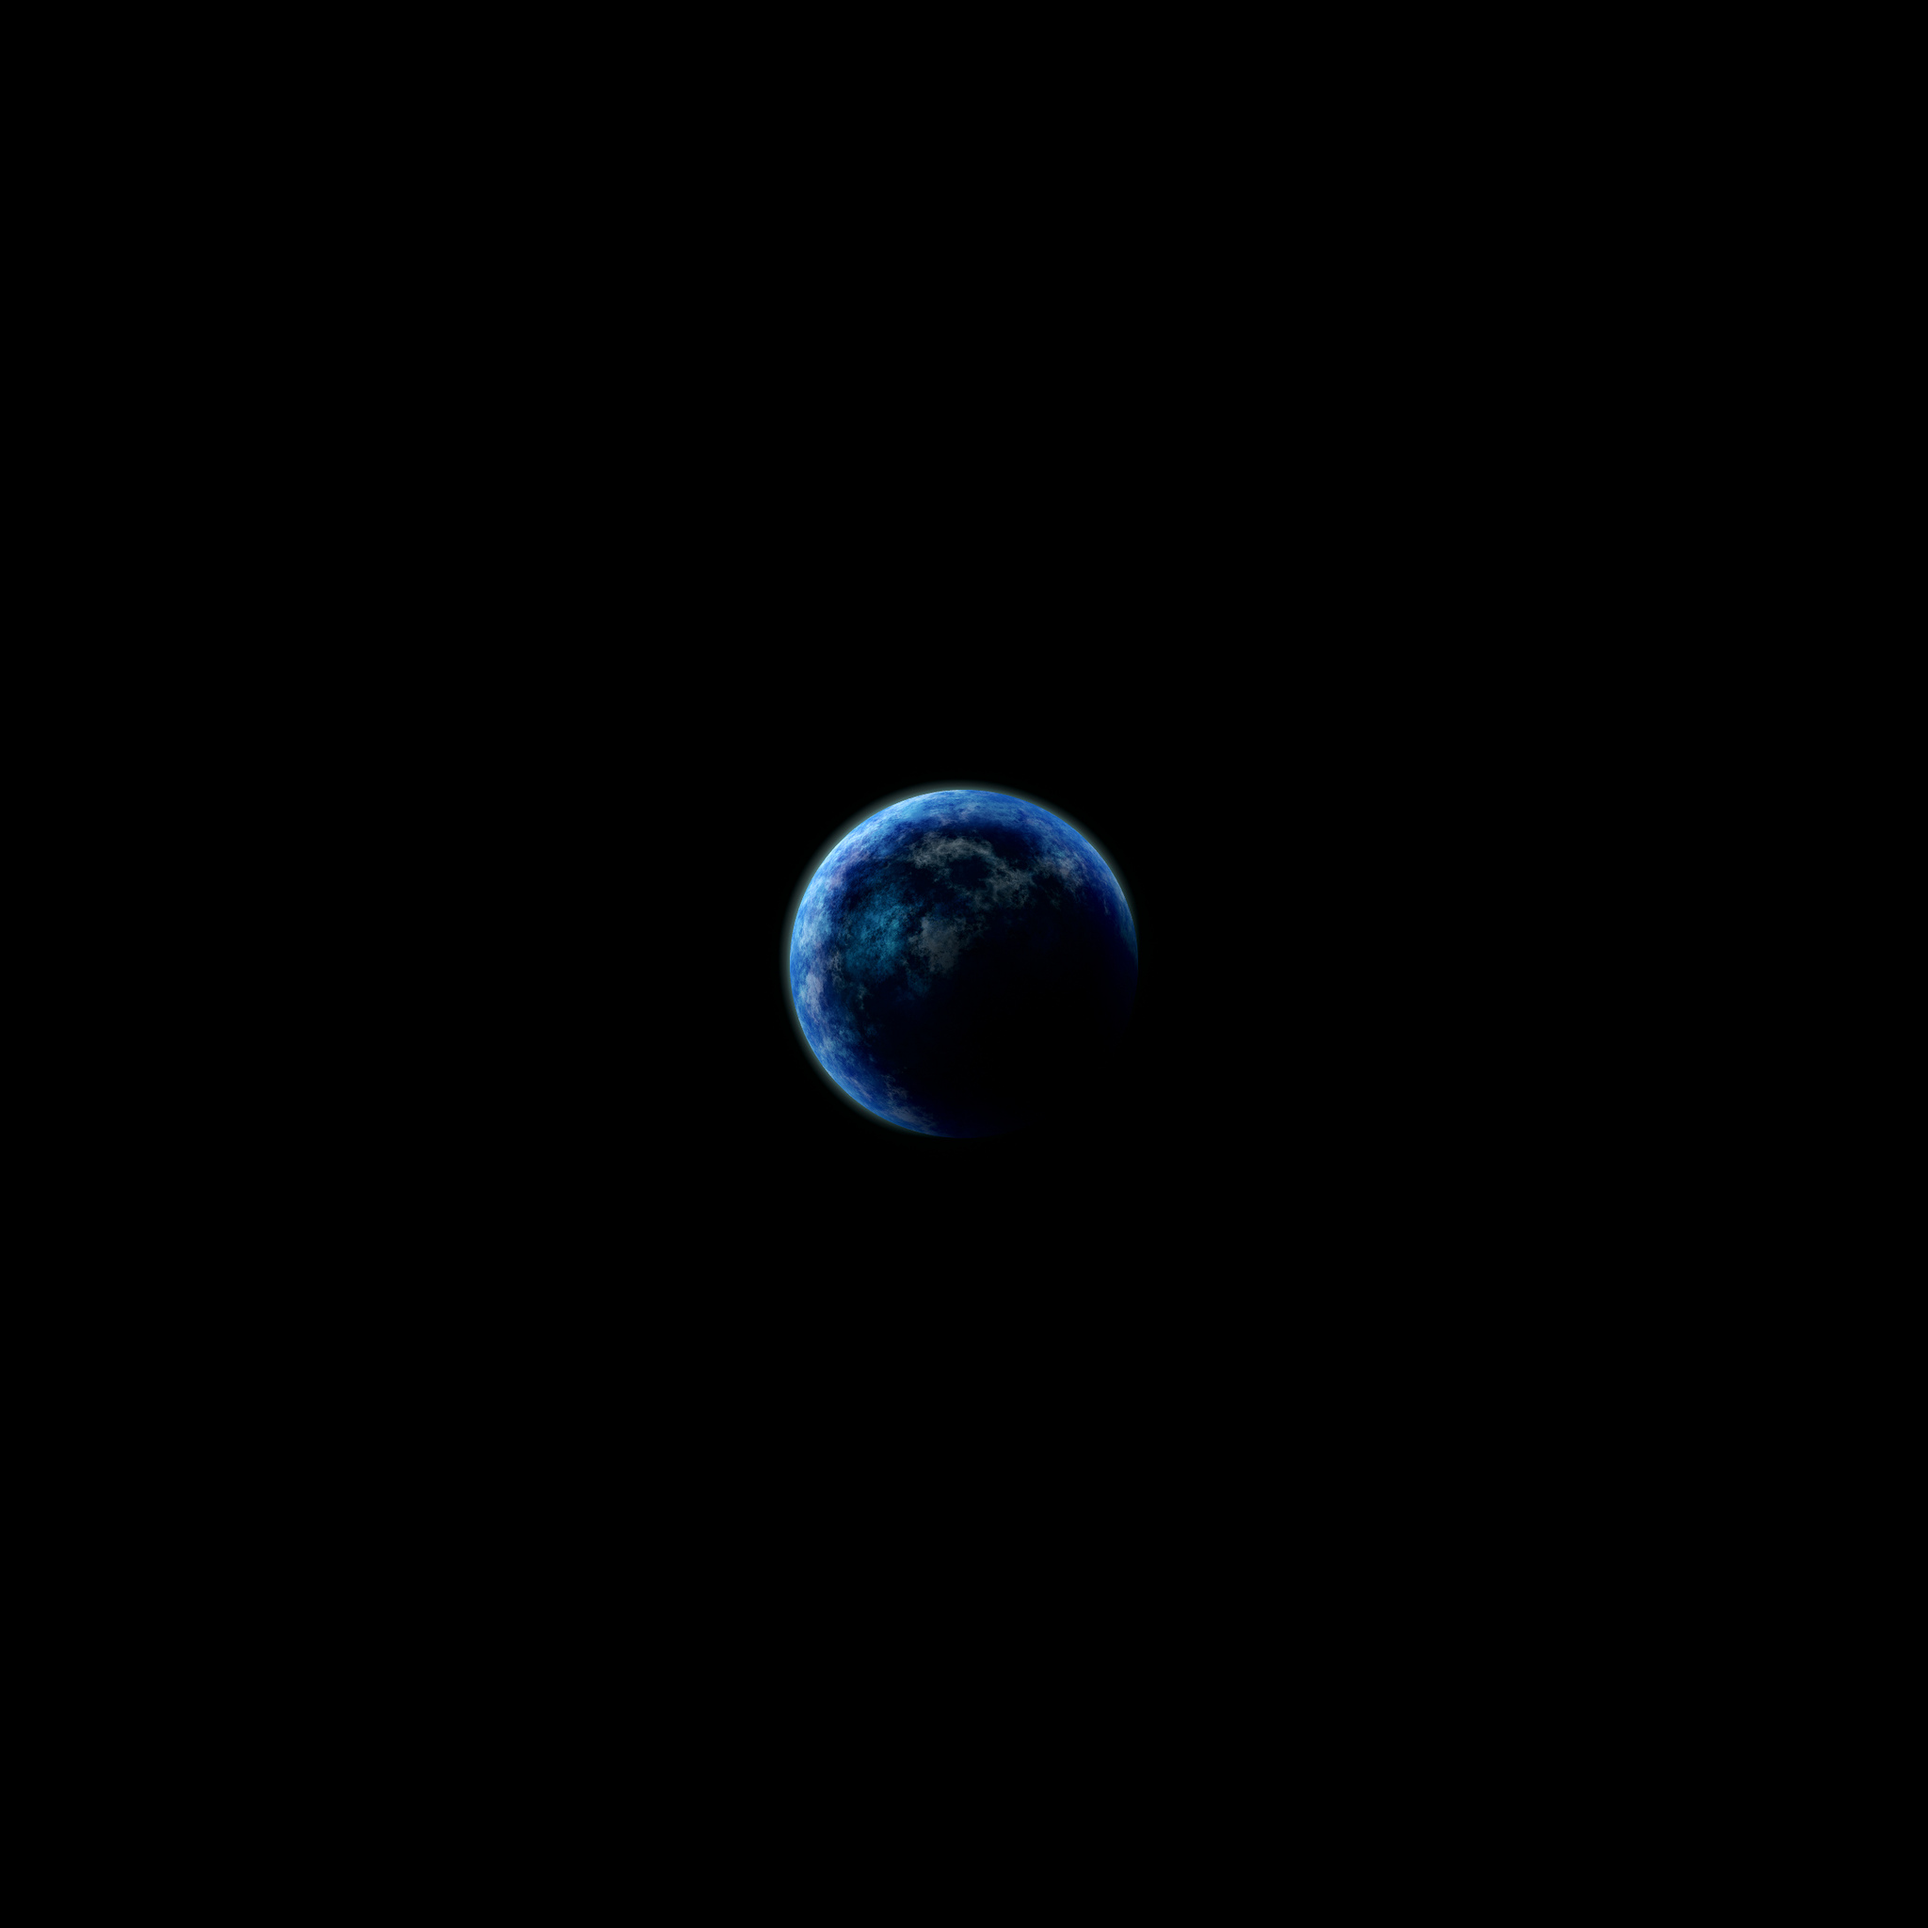
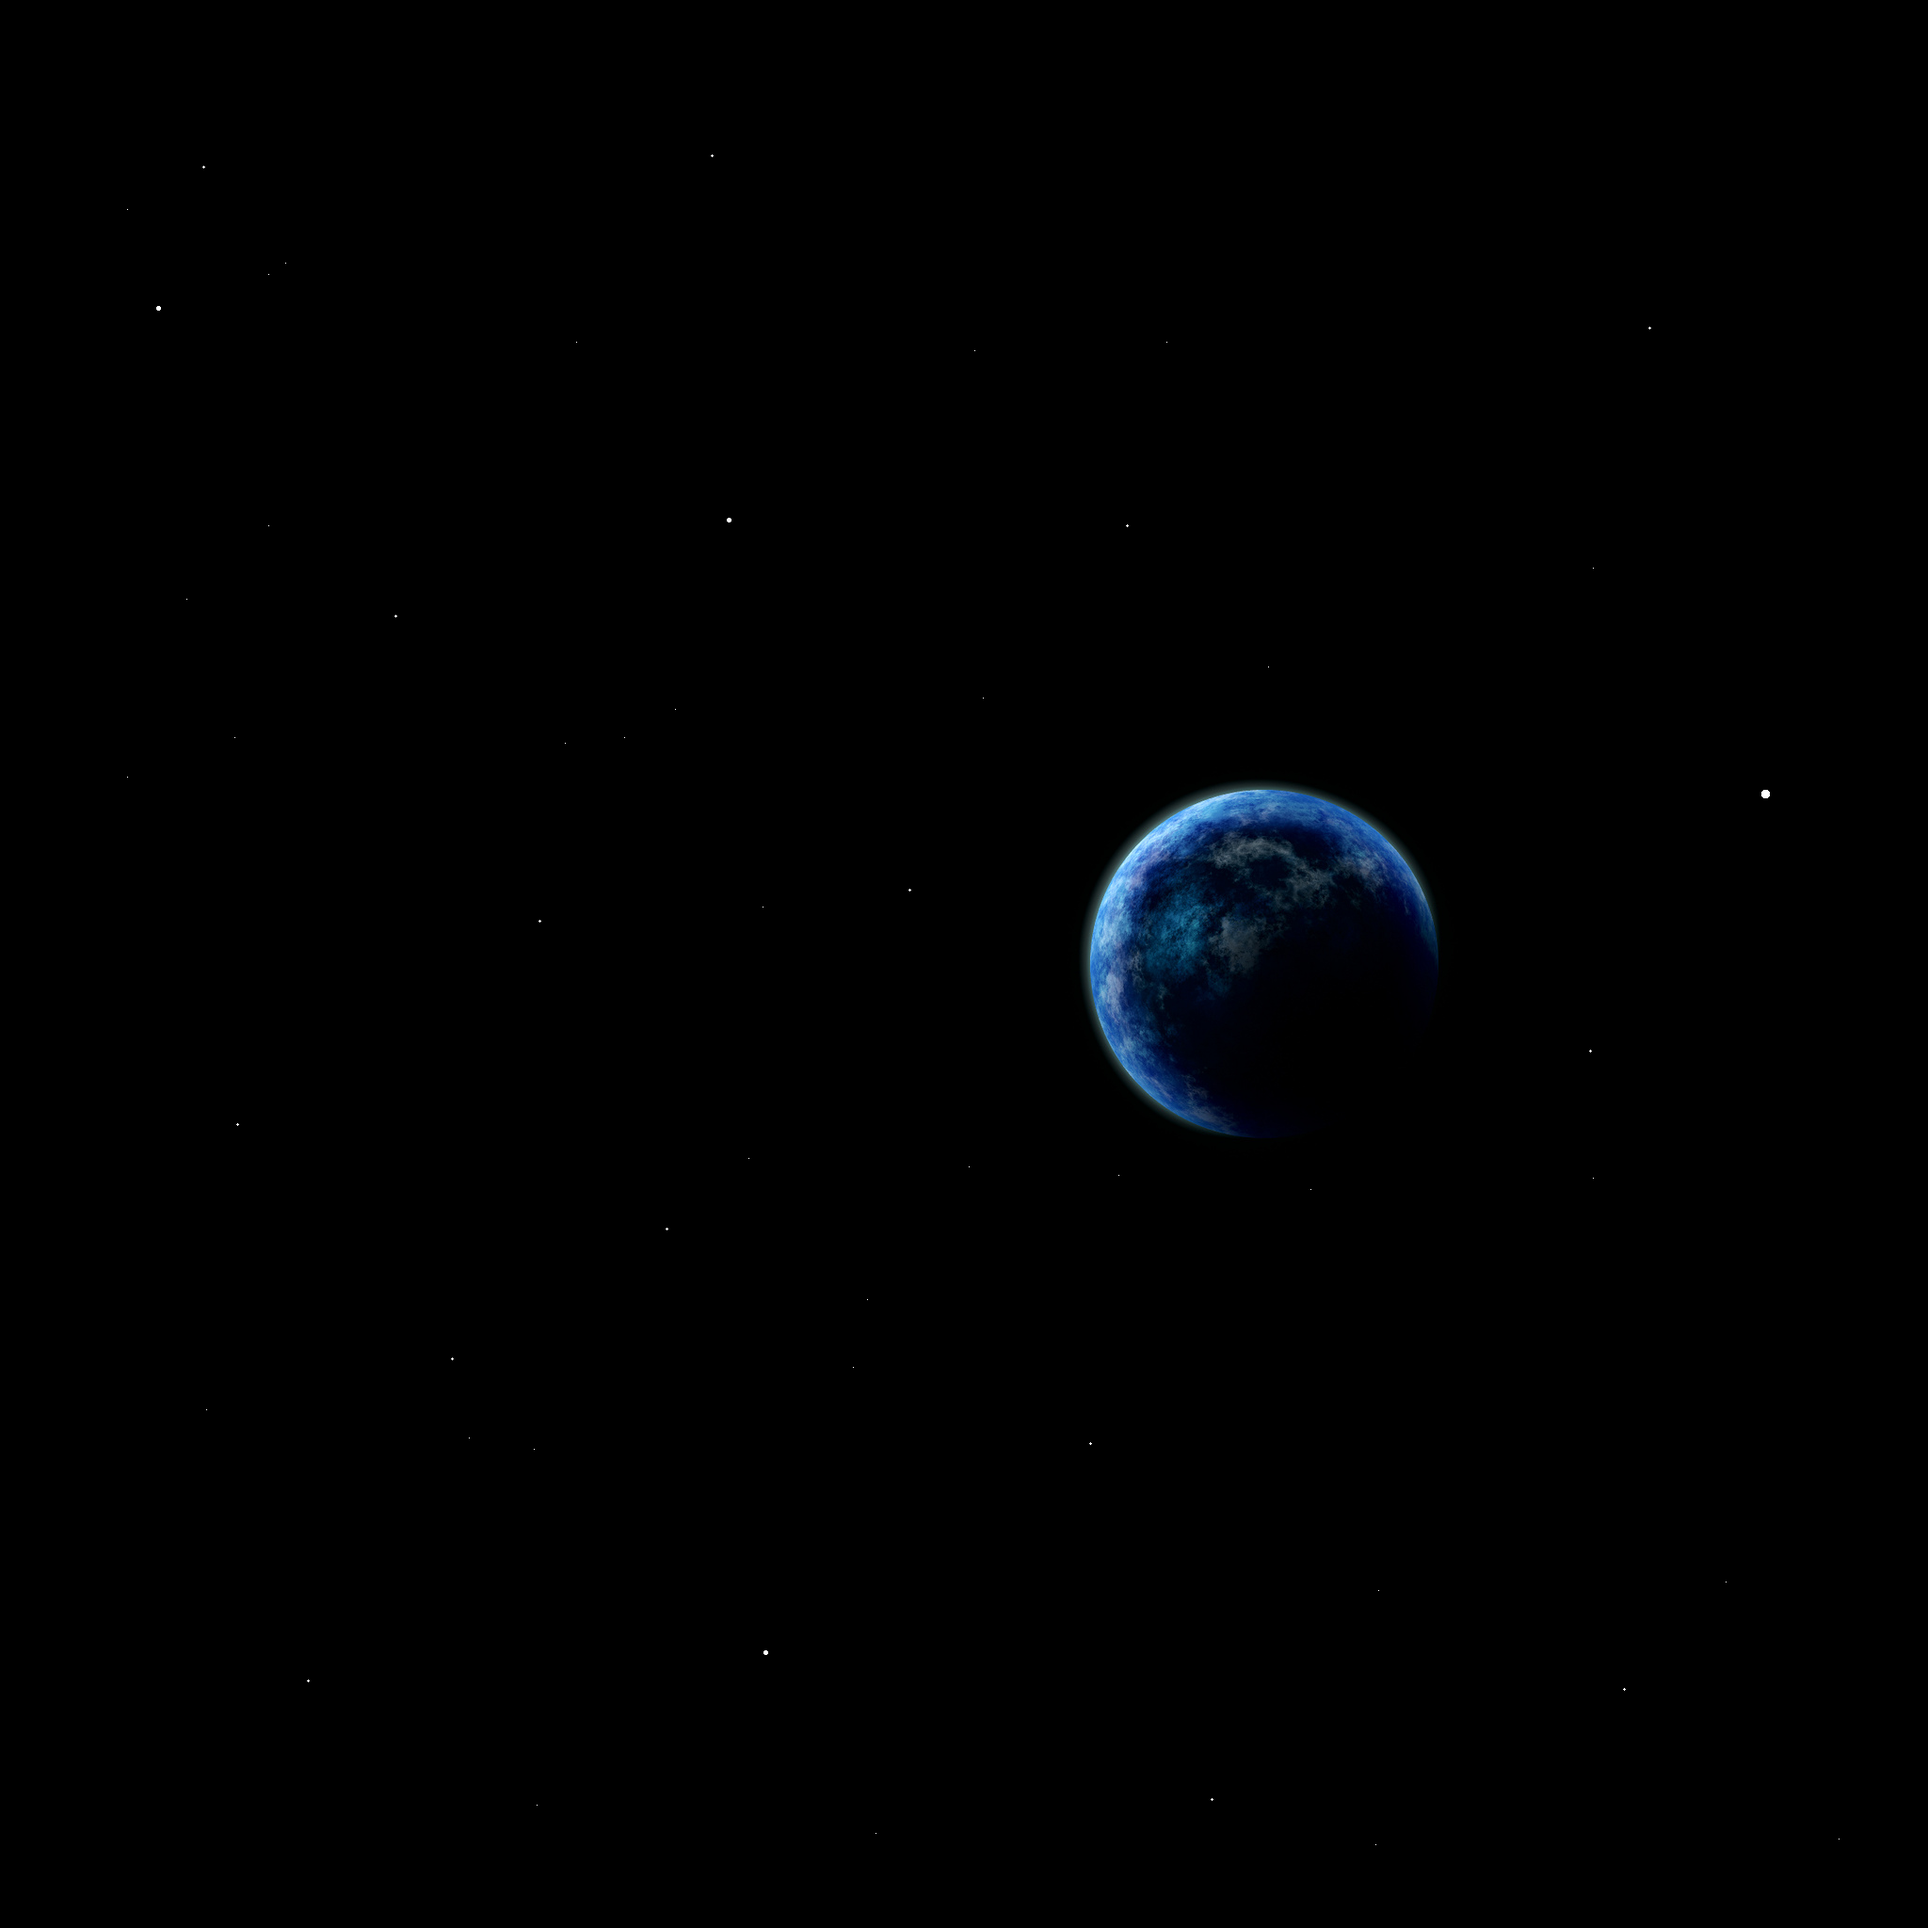
Adicionando bandeira e completando o skybox.

Changed region(s): [[0.4062, 0.4062, 0.75, 0.5938]]

diff --git a/jetpack/src/Object/Flag.java b/jetpack/src/Object/Flag.java
@@ -1,0 +1,107 @@
+/*
+ * To change this template, choose Tools | Templates
+ * and open the template in the editor.
+ */
+package Object;
+
+import Load.JWavefrontModel;
+import Main.Engine;
+import com.sun.opengl.util.texture.Texture;
+import com.sun.opengl.util.texture.TextureIO;
+import java.io.File;
+import java.io.IOException;
+import java.util.logging.Level;
+import java.util.logging.Logger;
+import javax.media.opengl.GL;
+import javax.media.opengl.GLAutoDrawable;
+import javax.media.opengl.GLException;
+
+/**
+ *
+ * @author bruno
+ */
+public class Flag extends WorldObject
+{
+
+    private Texture texture;
+    private float points[][][] = new float[45][45][3];
+
+    public Flag()
+    {
+        
+    }
+
+    @Override
+    public void update()
+    {
+        for (int y = 0; y < 45; y++) 
+        {
+            float hold = points[0][y][2]; 
+            for (int x = 0; x < 44; x++)
+            {
+                points[x][y][2] = points[x + 1][y][2];
+            }
+            points[44][y][2] = hold;
+        }
+    }
+
+    @Override
+    public void load() throws Exception
+    {
+        texture = TextureIO.newTexture(new File("./data/flag/Flag.png"), true);
+        texture.setTexParameterf(GL.GL_TEXTURE_MIN_FILTER, GL.GL_LINEAR);
+        texture.setTexParameterf(GL.GL_TEXTURE_MAG_FILTER, GL.GL_LINEAR);
+
+        for (int x = 0; x < 45; x++)
+        {
+            for (int y = 0; y < 45; y++)
+            {
+                points[x][y][0] = ((x / 5.0f) - 4.5f);
+                points[x][y][1] = ((y / 5.0f) - 4.5f);
+                points[x][y][2] = (float) (Math.sin((((x / 5.0f) * 40.0f) / 360.0f) * 3.141592654 * 2.0f));
+            }
+        }
+    }
+
+    public void draw(GLAutoDrawable glad)
+    {
+        Engine.gl.glPushMatrix();
+        Engine.gl.glDisable(GL.GL_CULL_FACE);
+        Engine.gl.glEnable(GL.GL_TEXTURE_2D);
+        Engine.gl.glTranslatef(-30, 5, 0);
+        Engine.gl.glRotatef(45, 0, 1, 0);
+        Engine.gl.glScalef(0.5f, 0.5f, 0.5f);
+
+        texture.enable();
+        texture.bind();
+        Engine.gl.glBegin(GL.GL_QUADS);
+        for (int x = 0; x < 44; x++)    
+        {
+            for (int y = 0; y < 44; y++) 
+            {
+                float float_x = (x) / 44.0f;
+                float float_y = (y) / 44.0f;  
+                float float_xb = (x + 1) / 44.0f; 
+                float float_yb = (y + 1) / 44.0f; 
+                Engine.gl.glNormal3f(0, 0, 1);
+                
+                Engine.gl.glTexCoord2f(float_x, float_y);
+                Engine.gl.glVertex3f(points[x][y][0], points[x][y][1], points[x][y][2]);
+
+                Engine.gl.glTexCoord2f(float_x, float_yb); 
+                Engine.gl.glVertex3f(points[x][y + 1][0], points[x][y + 1][1], points[x][y + 1][2]);
+
+                Engine.gl.glTexCoord2f(float_xb, float_yb);
+                Engine.gl.glVertex3f(points[x + 1][y + 1][0], points[x + 1][y + 1][1], points[x + 1][y + 1][2]);
+
+                Engine.gl.glTexCoord2f(float_xb, float_y);
+                Engine.gl.glVertex3f(points[x + 1][y][0], points[x + 1][y][1], points[x + 1][y][2]);
+            }
+        }
+        Engine.gl.glEnd();
+
+        Engine.gl.glDisable(GL.GL_TEXTURE_2D);
+        Engine.gl.glEnable(GL.GL_CULL_FACE);
+        Engine.gl.glPopMatrix();
+    }
+}

diff --git a/jetpack/src/Object/SkyBox.java b/jetpack/src/Object/SkyBox.java
@@ -20,7 +20,7 @@ import javax.media.opengl.GLAutoDrawable;
 public class SkyBox extends WorldObject
 {
 
-    private Texture texture, sun;
+    private Texture texture, sun, stars;
 
     public SkyBox()
     {
@@ -41,6 +41,9 @@ public class SkyBox extends WorldObject
         sun = TextureIO.newTexture(new File("./data/skybox/sun.png"), true);
         sun.setTexParameterf(GL.GL_TEXTURE_MIN_FILTER, GL.GL_LINEAR);
         sun.setTexParameterf(GL.GL_TEXTURE_MAG_FILTER, GL.GL_LINEAR);
+        stars = TextureIO.newTexture(new File("./data/skybox/stars.png"), true);
+        stars.setTexParameterf(GL.GL_TEXTURE_MIN_FILTER, GL.GL_LINEAR);
+        stars.setTexParameterf(GL.GL_TEXTURE_MAG_FILTER, GL.GL_LINEAR);
     }
 
     @Override
@@ -84,6 +87,48 @@ public class SkyBox extends WorldObject
         Engine.gl.glVertex3f(Engine.Z_FAR_BOX, 0, Engine.Z_FAR_BOX);
         Engine.gl.glTexCoord2f(1, 1);
         Engine.gl.glVertex3f(Engine.Z_FAR_BOX, Engine.Z_FAR_BOX, Engine.Z_FAR_BOX);
+        Engine.gl.glEnd();
+        
+        // atras
+        stars.enable();
+        stars.bind();
+        Engine.gl.glBegin(GL.GL_QUADS);
+        Engine.gl.glTexCoord2f(0, 1);
+        Engine.gl.glVertex3f(-Engine.Z_FAR_BOX, Engine.Z_FAR_BOX, -Engine.Z_FAR_BOX);
+        Engine.gl.glTexCoord2f(0, 0);
+        Engine.gl.glVertex3f(-Engine.Z_FAR_BOX, 0, -Engine.Z_FAR_BOX);
+        Engine.gl.glTexCoord2f(1, 0);
+        Engine.gl.glVertex3f(Engine.Z_FAR_BOX, 0, -Engine.Z_FAR_BOX);
+        Engine.gl.glTexCoord2f(1, 1);
+        Engine.gl.glVertex3f(Engine.Z_FAR_BOX, Engine.Z_FAR_BOX, -Engine.Z_FAR_BOX);
+        Engine.gl.glEnd();
+        
+        // esquerda
+        stars.enable();
+        stars.bind();
+        Engine.gl.glBegin(GL.GL_QUADS);
+        Engine.gl.glTexCoord2f(0, 1);
+        Engine.gl.glVertex3f(Engine.Z_FAR_BOX, Engine.Z_FAR_BOX, -Engine.Z_FAR_BOX);
+        Engine.gl.glTexCoord2f(0, 0);
+        Engine.gl.glVertex3f(Engine.Z_FAR_BOX, 0, -Engine.Z_FAR_BOX);
+        Engine.gl.glTexCoord2f(1, 0);
+        Engine.gl.glVertex3f(Engine.Z_FAR_BOX, 0, Engine.Z_FAR_BOX);
+        Engine.gl.glTexCoord2f(1, 1);
+        Engine.gl.glVertex3f(Engine.Z_FAR_BOX, Engine.Z_FAR_BOX, Engine.Z_FAR_BOX);
+        Engine.gl.glEnd();
+        
+        // dereita
+        stars.enable();
+        stars.bind();
+        Engine.gl.glBegin(GL.GL_QUADS);
+        Engine.gl.glTexCoord2f(0, 1);
+        Engine.gl.glVertex3f(-Engine.Z_FAR_BOX, Engine.Z_FAR_BOX, -Engine.Z_FAR_BOX);
+        Engine.gl.glTexCoord2f(0, 0);
+        Engine.gl.glVertex3f(-Engine.Z_FAR_BOX, 0, -Engine.Z_FAR_BOX);
+        Engine.gl.glTexCoord2f(1, 0);
+        Engine.gl.glVertex3f(-Engine.Z_FAR_BOX, 0, Engine.Z_FAR_BOX);
+        Engine.gl.glTexCoord2f(1, 1);
+        Engine.gl.glVertex3f(-Engine.Z_FAR_BOX, Engine.Z_FAR_BOX, Engine.Z_FAR_BOX);
         Engine.gl.glEnd();
 
         // restora as matrizes e attr

diff --git a/jetpack/src/Object/Rocket.java b/jetpack/src/Object/Rocket.java
@@ -8,6 +8,9 @@ import Load.JWavefrontModel;
 import Main.Engine;
 import java.io.File;
 import java.io.IOException;
+import java.util.ArrayList;
+import java.util.Iterator;
+import java.util.LinkedList;
 import javax.media.opengl.GL;
 import javax.media.opengl.GLAutoDrawable;
 
@@ -17,11 +20,21 @@ import javax.media.opengl.GLAutoDrawable;
  */
 public class Rocket extends WorldObject
 {
-
+    private ArrayList<Point3f> smoke = new ArrayList<Point3f>();
+    private ArrayList<Float> diams = new ArrayList<Float>();
+    
     public Rocket()
     {
-        this.position = new Point3f(10f, 9f, 0f);
+        this.position = new Point3f(30f, 9f, 0f);
         this.scale = 10f;
+        for (int x = -3; x <= 3; x++)
+        {
+            for (int z = -3; z <= 3; z++)
+            {
+                smoke.add(new Point3f(x-30, -17, z-1));
+                diams.add(Float.valueOf((float) Math.random()*2));
+            }
+        }
     }
     
     @Override
@@ -34,20 +47,47 @@ public class Rocket extends WorldObject
         model.facetNormals();
         model.vertexNormals(90);
     }
+    
+    @Override
+    public void update()
+    {
+        for (int i = 0; i < diams.size(); ++i)
+        {
+            Float size = diams.get(i);
+            size += 0.08f;
+            if (size >= 2f) size = 0f;
+            diams.set(i, size);
+        }
+    }
 
     public void draw(GLAutoDrawable glad)
     {
-        //Engine.gl.glDisable(GL.GL_LIGHTING);
         Engine.gl.glPushMatrix();
-
         Engine.gl.glTranslatef(position.x, position.y, position.z);
-
-
         model.draw(glad);
+        
+        Engine.gl.glPushAttrib(GL.GL_ENABLE_BIT);
+        Engine.gl.glDisable(GL.GL_LIGHTING);
+        Engine.gl.glEnable(GL.GL_BLEND);
+        Engine.gl.glEnable(GL.GL_TEXTURE_2D);
+        Engine.gl.glBlendFunc(GL.GL_SRC_ALPHA, GL.GL_ONE_MINUS_SRC_ALPHA);
 
+        Iterator<Point3f> ita = smoke.iterator();
+        Iterator<Float> itb = diams.iterator();
+        
+        while (ita.hasNext())
+        {
+            Point3f point = ita.next();
+            Float size = itb.next();
+            Engine.gl.glTranslatef(position.x+point.x, position.y+point.y, position.z+point.z);
+            Engine.gl.glColor4f(1f, 1f, 1f, 1-size/3);
+            Engine.glut.glutSolidSphere(size, 10, 4);
+            Engine.gl.glTranslatef(-(position.x+point.x), -(position.y+point.y), -(position.z+point.z));
+        }
+        
+        Engine.gl.glColor4f(1,1,1,1);
+        Engine.gl.glPopAttrib();
         Engine.gl.glPopMatrix();
-
-        // Engine.gl.glEnable(GL.GL_LIGHTING);
-
+        
     }
 }

diff --git a/jetpack/src/Main/GameFrame.java b/jetpack/src/Main/GameFrame.java
@@ -9,6 +9,7 @@ import Input.MyKeyListener;
 import Input.MyMouseListener;
 import Input.MyMouseMotionListener;
 import Load.JWavefrontModel;
+import Object.Flag;
 import Object.Gravity;
 import Object.Invader;
 import Object.Lens;
@@ -94,6 +95,7 @@ public class GameFrame extends JFrame
         viewer.addObject(new Moon());
         viewer.addObject(new Gravity());
         viewer.addObject(new Rocket());
+        viewer.addObject(new Flag());
         viewer.addObject(new Lens());
         //for(int i=0; i<10; i++)
         //viewer.addObject(new Invader(i));

diff --git a/jetpack/src/Object/Lens.java b/jetpack/src/Object/Lens.java
@@ -80,6 +80,7 @@ public class Lens extends WorldObject
         Engine.gl.glPushMatrix();
         Engine.gl.glDisable(GL.GL_LIGHTING);
         Engine.gl.glDisable(GL.GL_DEPTH_TEST);
+        Engine.gl.glDisable(GL.GL_CULL_FACE);
         Engine.gl.glEnable(GL.GL_BLEND);
         Engine.gl.glEnable(GL.GL_TEXTURE_2D);
         Engine.gl.glBlendFunc(GL.GL_ONE, GL.GL_ONE);

diff --git a/jetpack/src/Main/Engine.java b/jetpack/src/Main/Engine.java
@@ -52,8 +52,8 @@ public class Engine implements GLEventListener
         
         // z-buffer
         gl.glEnable(GL.GL_DEPTH_TEST);
-        //gl.glEnable(GL.GL_CULL_FACE);
-        //gl.glCullFace(GL.GL_BACK);
+        gl.glEnable(GL.GL_CULL_FACE);
+        gl.glCullFace(GL.GL_BACK);
         
         //anti-aliasing
         //gl.glShadeModel(GL.GL_SMOOTH);
